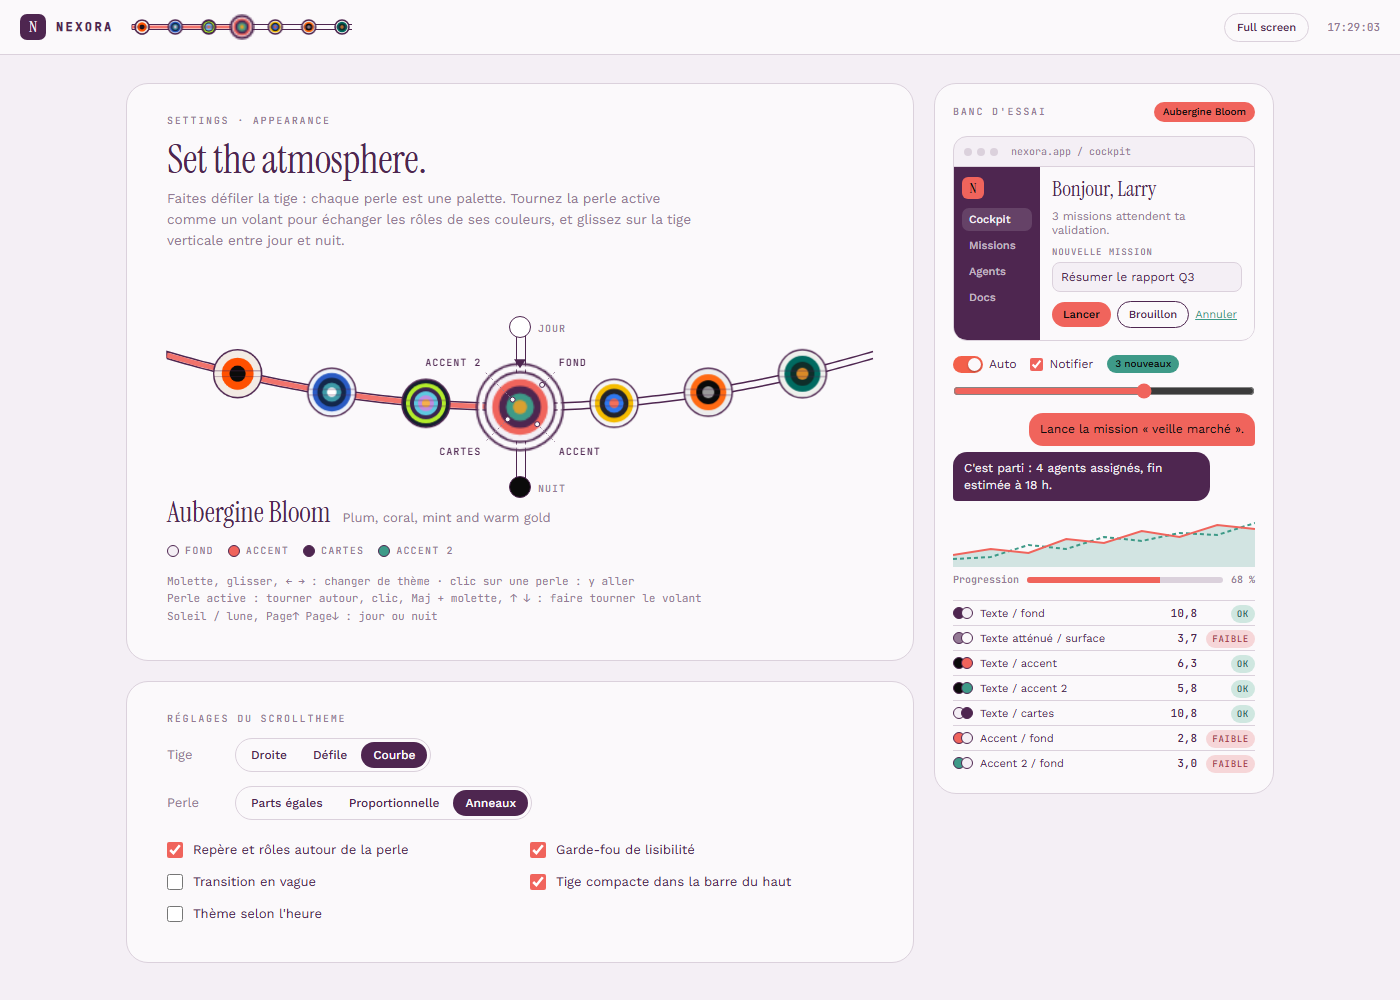
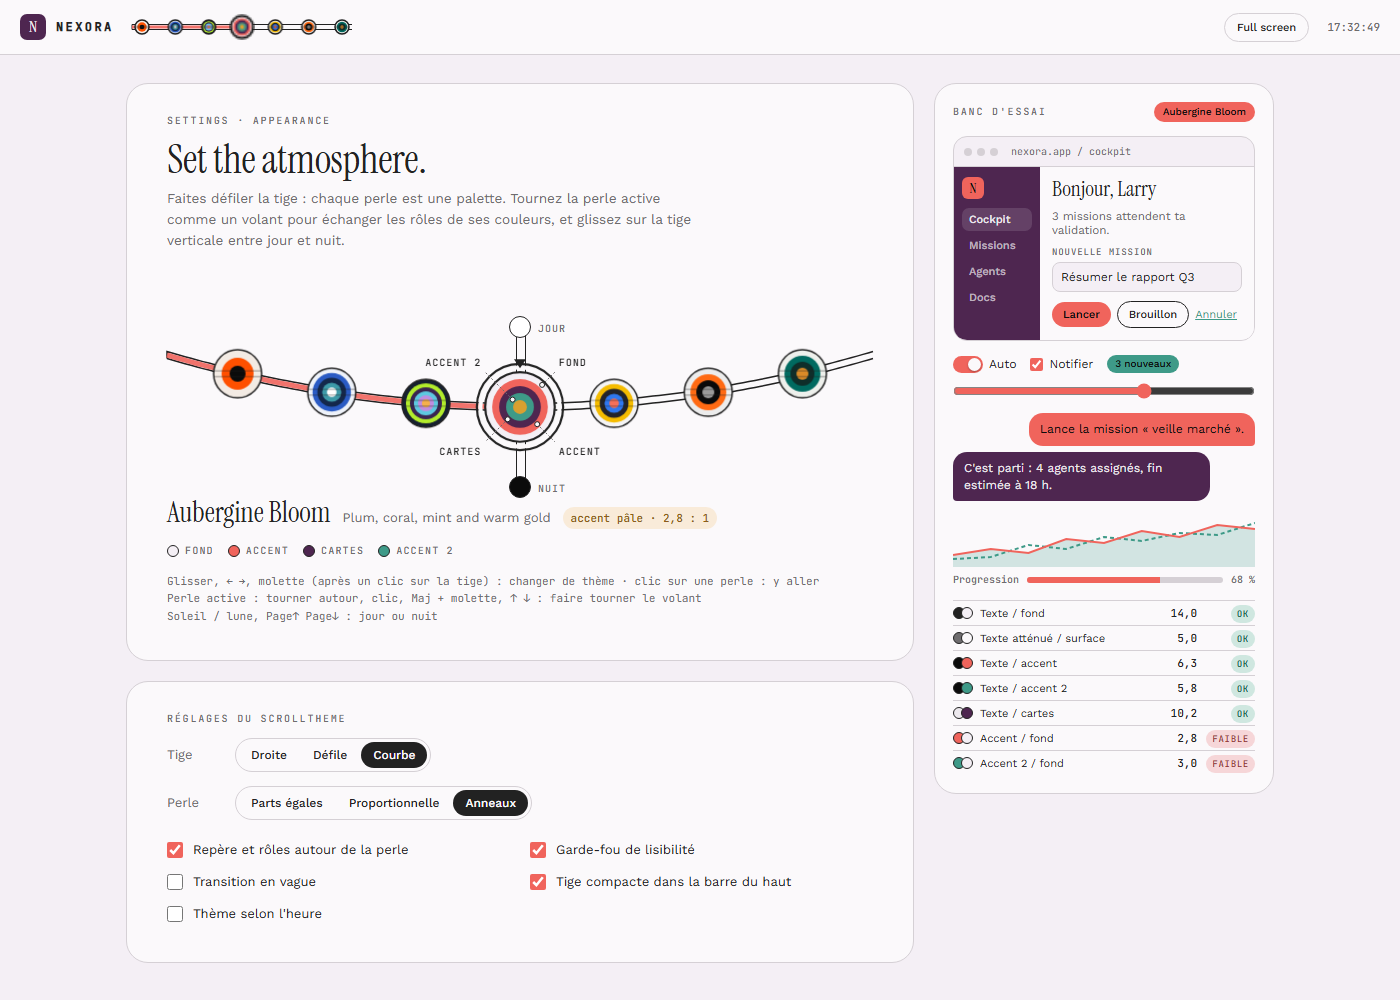
Pause the animation loop when idle and improve readability
- Stop the requestAnimationFrame loop once everything is settled and
  wake it on input; render the contrast table only when settled
- Muted text is computed to reach 4.5:1; body text is a lightly tinted
  black or white instead of a palette color
- Vertical wheel only drives the rod once it has focus, so the page
  scrolls normally
- Apply the last theme before first paint (no Ember flash)
- Pale accent (under 3:1) is a soft warning instead of being ignored
- Don't persist the simulated hour; default to the scrolling rod on
  small screens; honor prefers-reduced-motion
- Refresh README screenshots

diff --git a/index.html b/index.html
@@ -4,6 +4,13 @@
 <meta charset="utf-8">
 <meta name="viewport" content="width=device-width, initial-scale=1">
 <title>ScrollTheme</title>
+<script>
+  // Applique le dernier thème enregistré avant le premier affichage (évite le flash d'Ember au chargement)
+  try {
+    const v = JSON.parse(localStorage.getItem("scrollTheme.vars"));
+    for (const k in v) document.documentElement.style.setProperty("--" + k, v[k]);
+  } catch {}
+</script>
 <link rel="preconnect" href="https://fonts.googleapis.com">
 <link href="https://fonts.googleapis.com/css2?family=Instrument+Serif&family=Work+Sans:wght@400;500;600&family=JetBrains+Mono:wght@400;500&display=swap" rel="stylesheet">
 <style>
@@ -93,6 +100,7 @@
   .current span { color: var(--muted); font-size: 13px; }
   .current .warn { color: #b3261e; background: color-mix(in srgb, #e24b4a 14%, var(--surface)); font: 500 11px var(--mono);
                    padding: 4px 8px; border-radius: 99px; }
+  .current .warn.soft { color: color-mix(in srgb, #ba7517 70%, var(--ink)); background: color-mix(in srgb, #ef9f27 16%, var(--surface)); }
   .roles { display: flex; flex-wrap: wrap; gap: 6px 14px; margin-top: 12px; font: 500 10px/1 var(--mono);
            letter-spacing: .12em; text-transform: uppercase; color: var(--muted); }
   .roles span { display: inline-flex; align-items: center; gap: 6px; }
@@ -198,7 +206,7 @@
 <body>
   <header class="topbar" id="topbar">
     <div class="brand"><i>N</i>NEXORA</div>
-    <div class="st st--compact" id="stCompact" aria-label="Thème (compact)"></div>
+    <div class="st st--compact" id="stCompact" tabindex="-1" aria-label="Thème (compact)"></div>
     <div class="spacer"></div>
     <span class="pill">Full screen</span>
     <span class="clock" id="clock"></span>
@@ -222,7 +230,7 @@
         </div>
         <div class="editor" id="editor" hidden></div>
         <div class="hint">
-          Molette, glisser, ← → : changer de thème · clic sur une perle : y aller<br>
+          Glisser, ← →, molette (après un clic sur la tige) : changer de thème · clic sur une perle : y aller<br>
           Perle active : tourner autour, clic, Maj + molette, ↑ ↓ : faire tourner le volant<br>
           Soleil / lune, Page↑ Page↓ : jour ou nuit
         </div>
@@ -321,11 +329,16 @@ const lum = h => {
   return 0.2126 * r + 0.7152 * g + 0.0722 * b;
 };
 const contrast = (a, b) => { const x = lum(a), y = lum(b); return (Math.max(x, y) + 0.05) / (Math.min(x, y) + 0.05); };
-// Texte lisible sur `bg` : la couleur de la palette la plus contrastée si elle suffit, sinon noir ou blanc
-const readable = (bg, sw = []) => {
-  const best = sw.reduce((a, c) => contrast(c, bg) > contrast(a, bg) ? c : a, sw[0] || bg);
-  if (contrast(best, bg) >= 7) return best;
-  return contrast("#0b0b0b", bg) >= contrast("#ffffff", bg) ? "#0b0b0b" : "#ffffff";
+// Texte lisible sur `bg` : noir ou blanc, légèrement teinté par le fond tant que le contraste reste ≥ 7
+const readable = bg => {
+  const base = contrast("#0b0b0b", bg) >= contrast("#ffffff", bg) ? "#0b0b0b" : "#ffffff";
+  const tinted = mix(base, bg, 0.1);
+  return contrast(tinted, bg) >= 7 ? tinted : base;
+};
+// Mélange `fg` vers `bg` le plus possible (jusqu'à `t`) sans descendre sous `min` de contraste sur `on`
+const soften = (fg, bg, t, on, min) => {
+  for (; t > 0; t -= 0.02) { const c = mix(fg, bg, t); if (contrast(c, on) >= min) return c; }
+  return fg;
 };
 const blend = (A, B, t) => t <= 0 ? A : Object.fromEntries(Object.keys(A).map(k => [k, mix(A[k], B[k], t)]));
 
@@ -339,14 +352,14 @@ function derive(sw, r, light) {
   let bg = at(0), dark = at(2);
   const accent = at(1);
   if (light && (light < 0 ? lum(bg) < lum(dark) : lum(bg) > lum(dark))) [bg, dark] = [dark, bg];
-  const ink = readable(bg, sw);
+  const ink = readable(bg), surface = mix(bg, "#ffffff", lum(bg) > 0.3 ? 0.6 : 0.05);
   const v = {
-    bg, ink, accent, dark,
+    bg, ink, accent, dark, surface,
     "accent-2": k > 3 ? at(3) : mix(accent, dark, 0.45),
-    surface: mix(bg, "#ffffff", lum(bg) > 0.3 ? 0.6 : 0.05),
-    muted: mix(ink, bg, 0.42),
+    // texte atténué : aussi pâle que possible, mais lisible (4,5) sur le fond comme sur la surface
+    muted: soften(ink, bg, 0.42, contrast(bg, ink) < contrast(surface, ink) ? bg : surface, 4.5),
     line: mix(ink, bg, 0.85),
-    "on-dark": readable(dark, sw),
+    "on-dark": readable(dark),
     "on-accent": readable(accent),
   };
   v["on-accent-2"] = readable(v["accent-2"]);
@@ -360,18 +373,20 @@ function varsFor(i, r, light) {
   const at = rr => m ? blend(derive(sw, rr, 0), derive(sw, rr, m), lt) : derive(sw, rr, 0);
   return blend(at(f), at(f + 1), ease(r - f));
 }
-// Garde-fou : ce qui deviendrait illisible
+// Garde-fou : [rôle, contraste, bloquant]. Bloquant = presque invisible, le cran est sauté.
+// Non bloquant = accent sous 3 : 1, correct pour un bouton plein mais trop pâle pour un trait fin ou une icône.
 function issues(v) {
   const out = [];
   const c1 = contrast(v.ink, v.bg), c2 = contrast(v.accent, v.bg), c3 = contrast(v.dark, v.bg);
-  if (c1 < 4.5) out.push(["texte", c1]);
-  if (c2 < 1.4) out.push(["accent", c2]);
-  if (c3 < 1.15) out.push(["cartes", c3]);
+  if (c1 < 4.5) out.push(["texte", c1, true]);
+  if (c2 < 1.4) out.push(["accent", c2, true]);
+  else if (c2 < 3) out.push(["accent pâle", c2, false]);
+  if (c3 < 1.15) out.push(["cartes", c3, true]);
   return out;
 }
 
 // ---------- État partagé ----------
-const STORE = "scrollTheme.v3";
+const STORE = "scrollTheme.v3", VARS_STORE = "scrollTheme.vars";
 let saved = {};
 try { saved = JSON.parse(localStorage.getItem(STORE)) || {}; } catch {}
 if (Array.isArray(saved.custom) && saved.custom.length >= 3 && saved.custom.length <= 6 &&
@@ -381,16 +396,20 @@ const S = {
   target: clamp(+saved.theme || 0),
   rot: THEMES.map((_, i) => Math.round(+(saved.rot || [])[i] || 0)),
   light: [-1, 0, 1].includes(saved.light) ? saved.light : 0,
-  opts: Object.assign({ rod: "straight", bead: "pie", roles: true, guard: true, wave: false, compact: true, auto: false, hour: null }, saved.opts),
+  // sur petit écran, la tige qui défile évite que les perles se chevauchent
+  opts: Object.assign({ rod: innerWidth < 600 ? "carousel" : "straight", bead: "pie", roles: true, guard: true, wave: false,
+                        compact: true, auto: false }, saved.opts, { hour: null }),
   pull: -1, lastDir: 1,
 };
 S.pos = S.target; S.committed = Math.round(S.target);
 S.rotPos = [...S.rot]; S.lightPos = S.light;
 
+// L'heure simulée sert aux essais : elle n'est pas enregistrée
 function persist() {
+  wake();
   try {
     localStorage.setItem(STORE, JSON.stringify({ theme: Math.round(S.target), rot: S.rot.map(Math.round),
-      light: S.light, custom: THEMES[CUSTOM].swatch, opts: S.opts }));
+      light: S.light, custom: THEMES[CUSTOM].swatch, opts: { ...S.opts, hour: null } }));
   } catch {}
 }
 
@@ -403,7 +422,7 @@ function commitTheme() {
 }
 function select(i) { manual(); S.target = clamp(i); commitTheme(); }
 function snapTheme() { S.target = Math.round(S.target); commitTheme(); }
-const isBad = (i, r) => issues(varsFor(i, r, S.light)).length > 0;
+const isBad = (i, r) => issues(varsFor(i, r, S.light)).some(x => x[2]);
 // Pose la rotation sur un cran ; avec le garde-fou, saute les crans illisibles dans le sens du geste
 function settleRot(i, r, dir) {
   const k = THEMES[i].swatch.length;
@@ -416,7 +435,7 @@ function setLight(v) { manual(); S.light = S.light === v ? 0 : v; persist(); }
 
 // Transition en vague : le nouveau thème part de la perle et s'étend en cercle
 function waveTo(idx) {
-  const go = () => { S.committed = idx; applyVars(); };
+  const go = () => { S.committed = idx; applyVars(); wake(); };
   if (!document.startViewTransition || matchMedia("(prefers-reduced-motion: reduce)").matches) return go();
   const { x, y } = main.clientPoint(idx);
   const R = Math.hypot(Math.max(x, innerWidth - x), Math.max(y, innerHeight - y));
@@ -440,7 +459,7 @@ function autoTick() {
   const idx = Math.round(S.target);
   if (idx !== S.committed) { if (S.opts.wave) waveTo(idx); else S.committed = idx; }
 }
-setInterval(autoTick, 20000);
+setInterval(() => { autoTick(); wake(); }, 20000);
 
 // ---------- Dessin d'une perle (SVG, rayon 50) ----------
 const pt = (deg, r) => [r * Math.sin(deg * Math.PI / 180), -r * Math.cos(deg * Math.PI / 180)];
@@ -498,7 +517,7 @@ class Rail {
       el.append(b);
       return { el: b, spin: b.querySelector(".spin"), thru: b.querySelector(".thru"), gap: b.querySelector(".gap"), halo: b.querySelector(".halo"), html: "" };
     });
-    new ResizeObserver(() => { this.W = el.clientWidth || 1; this.rodKey = ""; }).observe(el);
+    new ResizeObserver(() => { this.W = el.clientWidth || 1; this.visible = el.clientWidth > 0; this.rodKey = ""; wake(); }).observe(el);
     this.W = el.clientWidth || 1;
     this.bind();
   }
@@ -533,7 +552,7 @@ class Rail {
   }
 
   render() {
-    if (!this.el.offsetParent) return;
+    if (!this.visible) return;
     const mode = this.mode(), g = this.compact ? 2.5 : 3.5;
     this.el.classList.toggle("is-carousel", mode === "carousel");
     this.el.style.setProperty("--size", this.base + "px");
@@ -606,6 +625,7 @@ class Rail {
     el.addEventListener("pointermove", e => {
       const d = this.drag;
       if (!d) return;
+      wake();
       if (d.wheel) {
         const w = d.wheel, a = angleAt(e, w.c);
         const da = Math.atan2(Math.sin(a - w.last), Math.cos(a - w.last)); // passage -π / π
@@ -634,9 +654,13 @@ class Rail {
     el.addEventListener("pointerup", end);
     el.addEventListener("pointercancel", end);
 
+    // La molette verticale ne pilote la tige qu'une fois celle-ci active (clic ou Tab) :
+    // sinon elle fait défiler la page comme d'habitude. Molette horizontale et Maj + molette : toujours.
     el.addEventListener("wheel", e => {
-      e.preventDefault();
-      const delta = (Math.abs(e.deltaX) > Math.abs(e.deltaY) ? e.deltaX : e.deltaY) * (e.deltaMode === 1 ? 30 : 1);
+      const horizontal = Math.abs(e.deltaX) > Math.abs(e.deltaY);
+      if (!horizontal && !e.shiftKey && !el.contains(document.activeElement)) return;
+      e.preventDefault(); wake();
+      const delta = (horizontal ? e.deltaX : e.deltaY) * (e.deltaMode === 1 ? 30 : 1);
       const a = Math.round(S.target);
       if (e.shiftKey && !this.compact) {                 // Maj + molette : tourner le volant
         S.rot[a] += delta * 0.006;
@@ -670,7 +694,7 @@ const main = new Rail($("stMain"), false);
 const rails = [main, new Rail($("stCompact"), true)];
 
 // ---------- Application du thème ----------
-let lastVars = "";
+let lastVars = "", lastV = null;
 function currentVars() {
   if (S.opts.wave) return varsFor(S.committed, S.rotPos[S.committed], S.lightPos);
   const i = Math.floor(S.pos), j = Math.min(i + 1, N - 1);
@@ -679,9 +703,16 @@ function currentVars() {
 function applyVars() {
   const v = currentVars(), str = JSON.stringify(v);
   if (str === lastVars) return;
-  lastVars = str;
+  lastVars = str; lastV = v;
   for (const k in v) root.style.setProperty("--" + k, v[k]);
-  renderContrast(v);
+}
+// Une fois le thème posé : tableau des contrastes, et copie des variables pour le prochain chargement
+let settledVars = "";
+function settle() {
+  if (!lastV || lastVars === settledVars) return;
+  settledVars = lastVars;
+  renderContrast(lastV);
+  try { localStorage.setItem(VARS_STORE, lastVars); } catch {}
 }
 
 // Contrastes en direct (WCAG : 4,5 pour du texte, 3 pour un élément d'interface)
@@ -708,14 +739,16 @@ let infoKey = "", editorKey = "";
 function updateInfo() {
   const cur = S.opts.wave ? S.committed : Math.round(S.pos);
   const v = varsFor(cur, Math.round(S.rotPos[cur]), S.light), bad = issues(v);
-  S.bad = bad.length > 0;
+  S.bad = bad.some(x => x[2]);
   const key = cur + "|" + bad.map(b => b[0] + b[1].toFixed(1)).join();
   if (key !== infoKey) {
     infoKey = key;
     $("curName").textContent = $("chip").textContent = THEMES[cur].name;
     $("curDesc").textContent = THEMES[cur].desc;
     $("warn").hidden = !bad.length;
-    $("warn").textContent = bad.map(([w, c]) => `${w} peu lisible · ${c.toFixed(1).replace(".", ",")} : 1`).join(" — ");
+    $("warn").classList.toggle("soft", !S.bad);
+    $("warn").textContent = bad.map(([w, c, hard]) =>
+      `${w}${hard ? " peu lisible" : ""} · ${c.toFixed(1).replace(".", ",")} : 1`).join(" — ");
     main.el.setAttribute("aria-valuenow", cur);
     main.el.setAttribute("aria-valuetext", THEMES[cur].name);
   }
@@ -744,10 +777,10 @@ editor.addEventListener("click", e => {
   S.pull = -1; persist();
 });
 // survoler une couleur la fait sortir de la perle
-editor.addEventListener("pointerover", e => { const s = e.target.closest(".sw"); S.pull = s ? +s.dataset.j : -1; });
-editor.addEventListener("pointerleave", () => { S.pull = -1; });
-editor.addEventListener("focusin", e => { if (e.target.dataset.j) S.pull = +e.target.dataset.j; });
-editor.addEventListener("focusout", () => { S.pull = -1; });
+editor.addEventListener("pointerover", e => { const s = e.target.closest(".sw"); S.pull = s ? +s.dataset.j : -1; wake(); });
+editor.addEventListener("pointerleave", () => { S.pull = -1; wake(); });
+editor.addEventListener("focusin", e => { if (e.target.dataset.j) S.pull = +e.target.dataset.j; wake(); });
+editor.addEventListener("focusout", () => { S.pull = -1; wake(); });
 
 // ---------- Réglages ----------
 function syncOpts() {
@@ -780,16 +813,23 @@ const tickClock = () => { clockEl.textContent = new Date().toLocaleTimeString("f
 tickClock(); setInterval(tickClock, 1000);
 
 // ---------- Boucle : chaque valeur affichée rejoint sa cible en douceur ----------
-const approach = (v, t, k) => Math.abs(t - v) < 0.001 ? t : v + (t - v) * k;
-(function frame() {
+// Elle s'arrête dès que tout est posé, et wake() la relance au premier changement.
+const reduceMotion = matchMedia("(prefers-reduced-motion: reduce)");
+const approach = (v, t, k) => Math.abs(t - v) < 0.001 || reduceMotion.matches ? t : v + (t - v) * k;
+let running = false;
+function frame() {
   S.pos = approach(S.pos, S.target, 0.16);
   S.rot.forEach((r, i) => { S.rotPos[i] = approach(S.rotPos[i], r, 0.18); });
   S.lightPos = approach(S.lightPos, S.light, 0.14);
   applyVars();
   updateInfo();
   rails.forEach(r => r.render());
+  const settled = S.pos === S.target && S.lightPos === S.light && S.rot.every((r, i) => S.rotPos[i] === r);
+  if (settled && !rails.some(r => r.drag)) { running = false; settle(); return; }
   requestAnimationFrame(frame);
-})();
+}
+function wake() { if (!running) { running = true; requestAnimationFrame(frame); } }
+wake();
 </script>
 </body>
 </html>

diff --git a/README.md b/README.md
@@ -13,7 +13,7 @@ Un seul fichier, `index.html` (HTML, CSS et JavaScript sans dépendance). Ouvrez
 
 | Geste | Effet |
 | --- | --- |
-| Molette, glisser, ← → | Changer de thème (fondu continu, puis aimantation sur la perle la plus proche) |
+| Glisser, ← →, molette (après un clic sur la tige) | Changer de thème (fondu continu, puis aimantation sur la perle la plus proche) |
 | Clic sur une perle | Aller à ce thème |
 | Tourner autour de la perle active, clic, Maj + molette, ↑ ↓ | Faire tourner le volant : chaque couleur change de rôle |
 | Soleil / lune, Page↑ Page↓ | Jour ou nuit |
